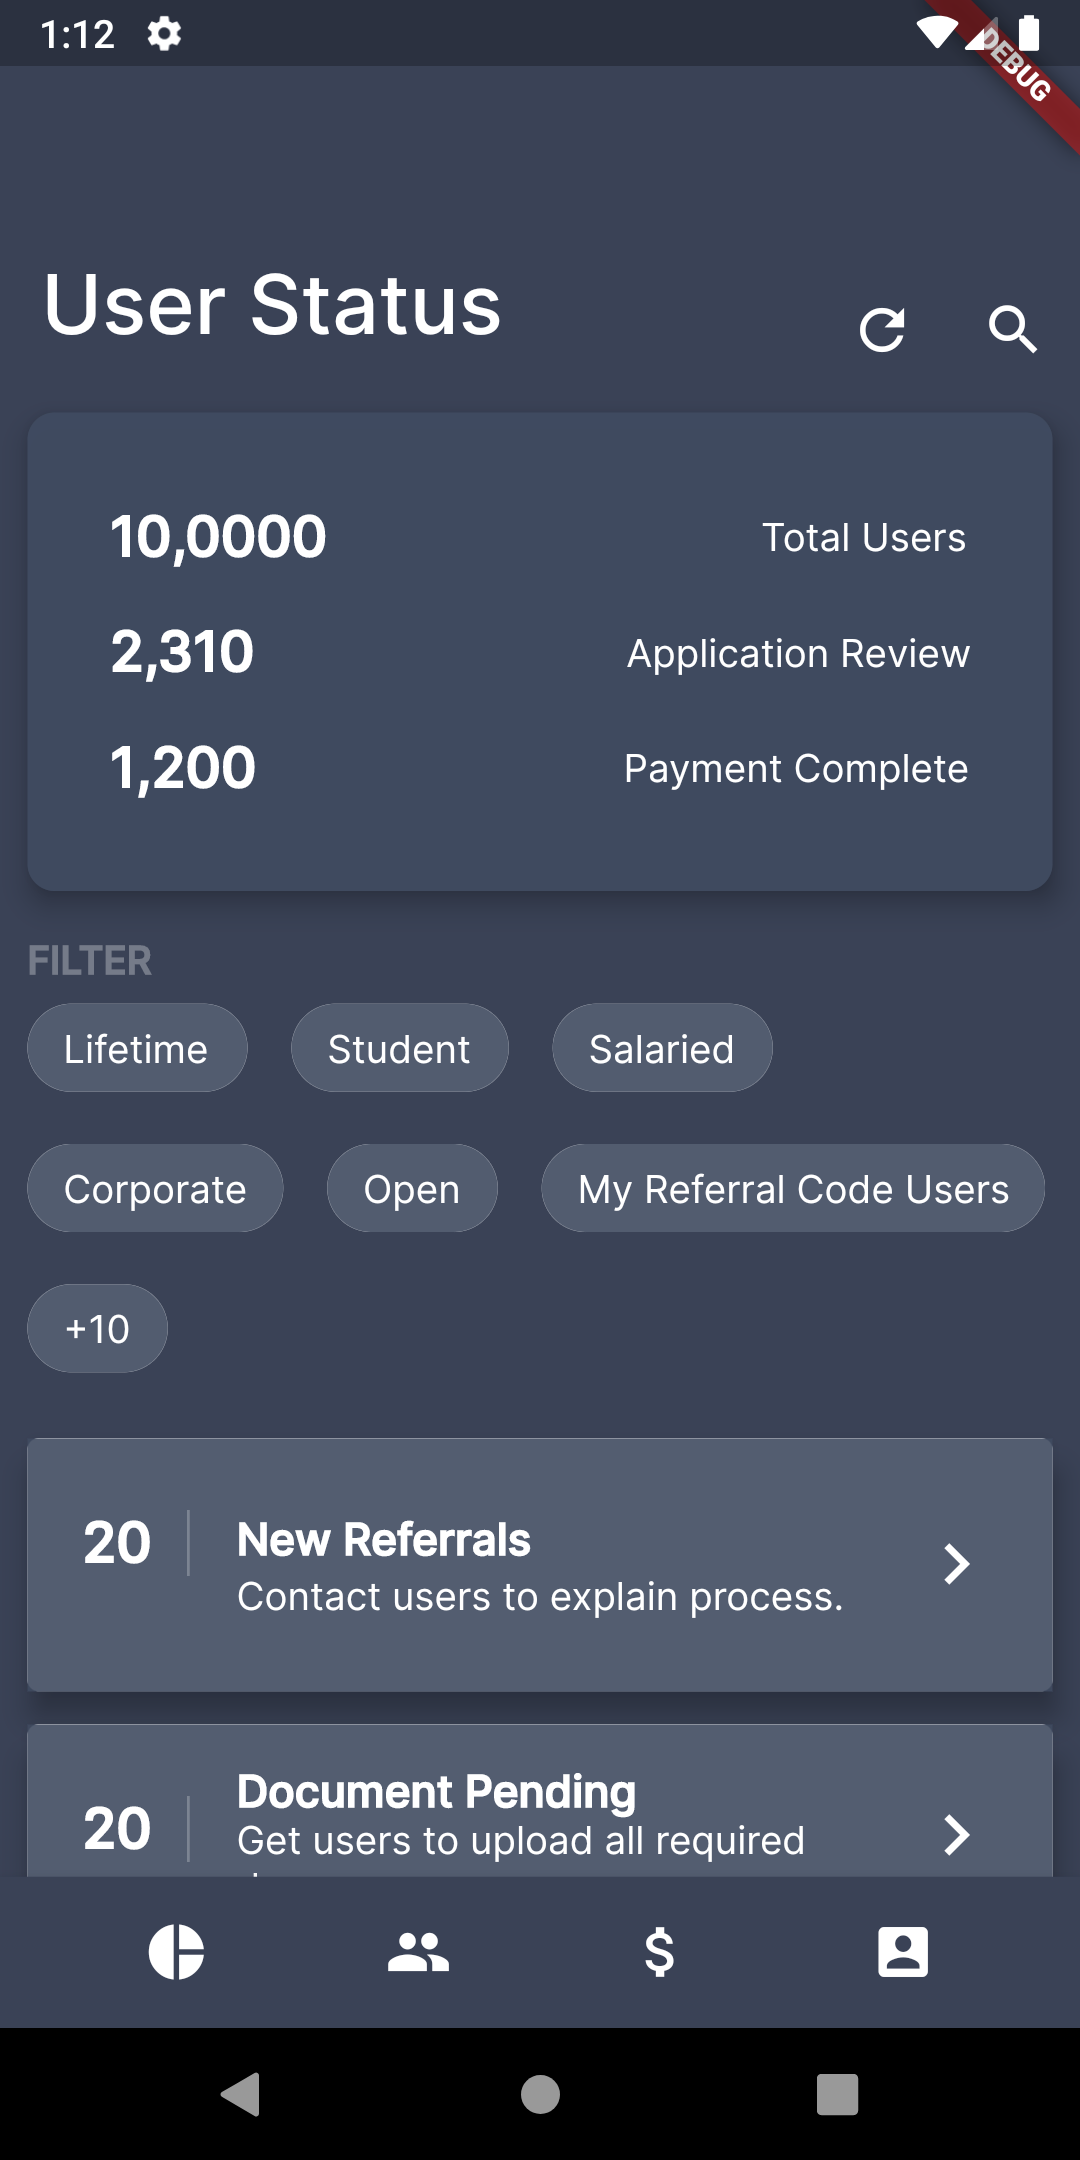
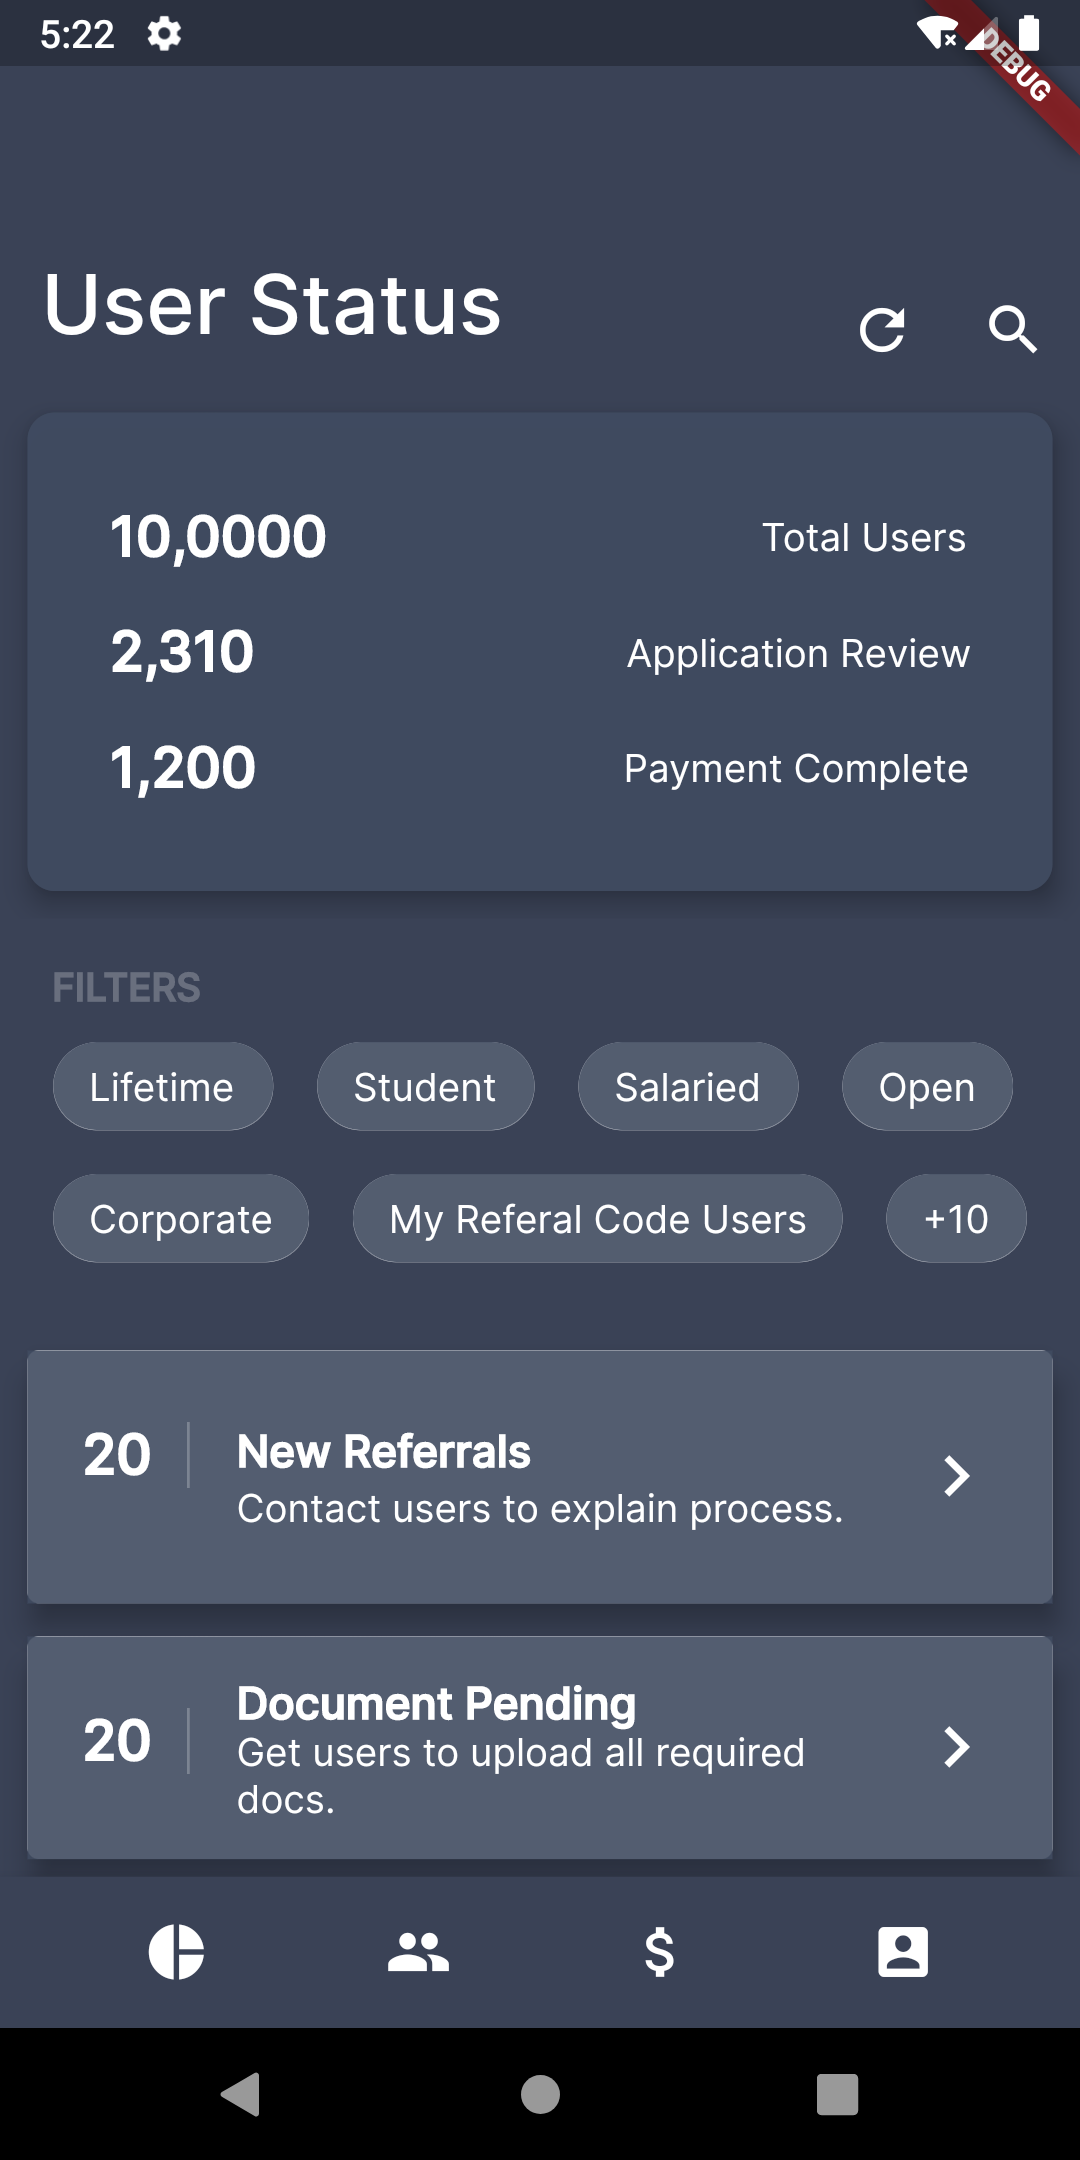
Filters are now dynamically generated, Also wrapped in a scrollview.

Changed region(s): [[0.0, 0.4343, 0.9778, 0.8685], [0.0306, 0.0, 0.0917, 0.031], [0.8556, 0.0, 0.8861, 0.031]]

diff --git a/lib/filterglance.dart b/lib/filterglance.dart
@@ -1,36 +1,143 @@
 import 'package:flutter/material.dart';
 import 'chipdesign.dart';
+import 'style.dart';
 
-class FilterGlance extends StatelessWidget{
+const List<String> _defaultMaterials = <String>[
+  'Lifetime',
+  'Student',
+  'Salaried',
+  'Open',
+  'Corporate',
+  'My Referal Code Users',
+  '+10',
+];
 
+final Set<String> _materials = <String>{};
+
+void reset() {
+  _materials.clear();
+  _materials.addAll(_defaultMaterials);
+}
+
+final List<Widget> chips = _materials.map<Widget>((String name) {
+  return Chip(
+    padding: EdgeInsets.fromLTRB(5.0, 0.0, 5.0, 0.0),
+    key: ValueKey<String>(name),
+    backgroundColor: ColorDarkFG,
+    label: Text(
+      name,
+      style: TextStyle(color: Colors.white),
+    ),
+  );
+}).toList();
+
+class ChipsTile extends StatelessWidget {
+  const ChipsTile({
+    Key key,
+    this.label,
+    this.children,
+  }) : super(key: key);
+
+  final String label;
+  final List<Widget> children;
+
+  // Wraps a list of chips into a ListTile for display as a section in the demo.
   @override
-  Widget build(BuildContext context){
+  Widget build(BuildContext context) {
+    final List<Widget> cardChildren = <Widget>[
+      Container(
+        padding: const EdgeInsets.only(top: 16.0, bottom: 4.0),
+        alignment: Alignment.topLeft,
+        margin: EdgeInsets.fromLTRB(15.0, 0, 0, 0),
+        child: Text(label,
+            textAlign: TextAlign.start,
+            style:
+                TextStyle(color: Colors.white24, fontWeight: FontWeight.bold)),
+      ),
+    ];
+    if (children.isNotEmpty) {
+      cardChildren.add(Container(
+          constraints: BoxConstraints(minHeight: 100, maxHeight: 100),
+          child: SingleChildScrollView(
+              child: Wrap(
+                  spacing: 10.0,
+                  children: children.map<Widget>((Widget chip) {
+                    return Padding(
+                      padding: const EdgeInsets.fromLTRB(3.0, 0.0, 3.0, 0.0),
+                      child: chip,
+                    );
+                  }).toList()))));
+    } else {
+      final TextStyle textStyle = Theme.of(context)
+          .textTheme
+          .caption
+          .copyWith(fontStyle: FontStyle.italic);
+      cardChildren.add(Semantics(
+        container: true,
+        child: Container(
+          alignment: Alignment.center,
+          constraints: const BoxConstraints(minWidth: 48.0, minHeight: 48.0),
+          padding: const EdgeInsets.all(8.0),
+          child: Text('None', style: textStyle),
+        ),
+      ));
+    }
+
+    return Card(
+      semanticContainer: false,
+      elevation: 0.0,
+      color: ColorDarkBG,
+      child: Column(
+        mainAxisSize: MainAxisSize.min,
+        children: cardChildren,
+      ),
+    );
+  }
+}
+
+/*
+
+class FilterGlance extends StatelessWidget {
+  @override
+  Widget build(BuildContext context) {
     return Column(
       crossAxisAlignment: CrossAxisAlignment.start,
       mainAxisAlignment: MainAxisAlignment.start,
       children: <Widget>[
-        Padding(
-        padding: EdgeInsets.fromLTRB(10.0, 10.0, 5, 0),
-        child: Text("FILTER",
-            style:
-                TextStyle(color: Colors.white30, fontWeight: FontWeight.bold)),
-      ),
-      Container(
-        child: Wrap(
-          spacing: 3.0, // gap between adjacent chips
-          runSpacing: 3.0, // gap between lines
-          children: <Widget>[
-            ChipDesign("Lifetime", 10.0),
-            ChipDesign("Student", 0.0),
-            ChipDesign("Salaried", 0.0),
-            ChipDesign("Corporate", 0.0),
-            ChipDesign("Open", 0.0),
-            ChipDesign("My Referral Code Users", 0.0),
-            ChipDesign("+10", 0.0),
-          ],
-        ),
-      ),
+        Column(
+            crossAxisAlignment: CrossAxisAlignment.start,
+            mainAxisAlignment: MainAxisAlignment.start,
+            children: <Widget>[
+                Padding(
+                padding: EdgeInsets.fromLTRB(10.0, 10.0, 5, 0),
+                child: Text("FILTER",
+                    style: TextStyle(
+                        color: Colors.white30, fontWeight: FontWeight.bold)),
+                ),
+
+                Container(
+                constraints: BoxConstraints(minHeight: 100, maxHeight: 100),
+                child: SingleChildScrollView(
+                    child: Wrap(
+                    crossAxisAlignment: WrapCrossAlignment.center,
+                    verticalDirection: VerticalDirection.down,
+                    runSpacing: 3.0,
+                    spacing: 3.0,
+                    children: <Widget>[
+                        ChipDesign("Lifetime"),
+                        ChipDesign("Student"),
+                        ChipDesign("Salaried"),
+                        ChipDesign("Corporate"),
+                        ChipDesign("My Referral Code Users"),
+                        ChipDesign("+10"),
+                    ],
+                    ),
+                ),
+                ),
+            ],
+            )
       ],
     );
   }
 }
+*/

diff --git a/lib/chipdesign.dart b/lib/chipdesign.dart
@@ -1,24 +1,44 @@
 import 'package:flutter/material.dart';
 import 'style.dart';
 
-class ChipDesign extends StatelessWidget{
+const Map<String, Set<String>> _materialActions = <String, Set<String>>{
+  'poker': <String>{'cash in'},
+  'tortilla': <String>{'fry', 'eat'},
+  'fish and': <String>{'fry', 'eat'},
+  'micro': <String>{'solder', 'fragment'},
+  'wood': <String>{'flake', 'cut', 'splinter', 'nick'},
+};
+
+class ChipDesign extends StatelessWidget {
   final String _label;
-  final double _padding;
 
-  ChipDesign(this._label, this._padding);
+  ChipDesign(this._label);
 
-  @override 
-  Widget build(BuildContext context){
-    return Container(
-      child: Chip(
-        label: Text(
-          _label,
-          style: TextStyle(color: Colors.white),
-        ),
-        backgroundColor: ColorDarkFG,
-        padding: EdgeInsets.fromLTRB(5.0, 0.0, 5.0, 0.0),
-      ),
-      margin: EdgeInsets.only(left: 10, right: 3, top: 0, bottom: 0),
-    );
+  final Set<String> _materials = <String>{};
+
+  @override
+  Widget build(BuildContext context) {
+    final List<Widget> chips = _materials.map<Widget>((String name) {
+      return ActionChip(
+            key: ValueKey<String>(name),
+            backgroundColor: ColorDarkBG,
+            label: Text(name),
+            onPressed: () {
+              print("If you stand for nothing, Burr, what’ll you fall for?");
+            },
+          );
+    }).toList();
+    /*
+        ActionChip(
+            label: Text(
+              _label,
+              style: TextStyle(color: Colors.white),
+            ),
+            backgroundColor: ColorDarkFG,
+            onPressed: () {
+              print("If you stand for nothing, Burr, what’ll you fall for?");
+            }
+            )
+            */
   }
 }

diff --git a/lib/app.dart b/lib/app.dart
@@ -6,8 +6,16 @@ import 'package:total_recall/statscard.dart';
 import 'userfunnels.dart';
 import 'style.dart';
 import 'topappbar.dart';
+import 'filterglance.dart';
+
+
 
 class TotalRecall extends StatelessWidget {
+
+  TotalRecall(){
+    reset();
+  }
+
   // This widget is the root of your application.
   @override
   Widget build(BuildContext context) {
@@ -61,7 +69,7 @@ class _ListPageState extends State<ListPage> {
     crossAxisAlignment: CrossAxisAlignment.start,
     children: <Widget>[
       StatsCard(),
-      FilterGlance(),
+      ChipsTile(label: 'FILTERS', children: chips),
       Expanded(
         child: ListView.builder(
           padding: EdgeInsets.fromLTRB(0.0, 10.0, 0.0, 0.0),
@@ -76,6 +84,8 @@ class _ListPageState extends State<ListPage> {
     ],
   );
 }
+
+
 
 Card makeCard(UserFunnels userFunnels) => Card(
       elevation: 8.0,
